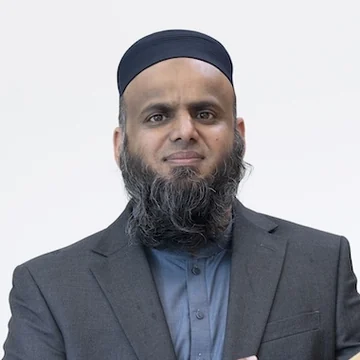
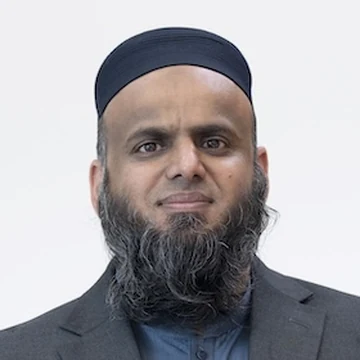
Project page: two-tone title, authors on one line, closer lead photo
- Title set in two tones: "Bias In, Bias Out:" large in ink, the
  descriptive part below in blue, lighter and smaller (wording unchanged)
- Project Lead block, then Dr. Muhammad Muneeb Saad, then Baqar Jafri on a
  single row under one rule; stacks on narrow screens
- Dr. Ali's photo re-cropped closer to match the other two
- Dr. Ali's own markup and text left exactly as he wrote them

diff --git a/assets/style.css b/assets/style.css
@@ -93,7 +93,14 @@ p{margin:0 0 1rem;max-width:62ch}
 /* The paper title is the h1, so it is set smaller and tighter than a marketing
    headline would be, and the plain-language question sits below it. */
 #finding h1{font-size:clamp(1.55rem,2.9vw,2.25rem);line-height:1.18;letter-spacing:-.02em;
-  font-weight:700;max-width:30ch}
+  font-weight:700;max-width:none}
+/* Two tones: the short name in ink and large, the long description below it in the page blue,
+   lighter and smaller, so the eye takes the name first. Blue rather than amber: amber text on the
+   light background falls below the contrast large text needs. */
+#finding h1 .t-main{display:block;font-size:clamp(2.1rem,4.4vw,3.1rem);font-weight:800;
+  letter-spacing:-.035em;line-height:1.05;color:var(--ink);margin-bottom:.55rem}
+#finding h1 .t-sub{display:block;font-size:clamp(1.12rem,1.9vw,1.42rem);font-weight:500;
+  letter-spacing:-.01em;line-height:1.4;color:var(--blue);max-width:44ch}
 .bylist{list-style:none;display:flex;flex-wrap:wrap;gap:0 2.2rem;margin:1.5rem 0 0;padding:.95rem 0 0;
   border-top:2px solid var(--ink)}
 .bylist li{font-size:.87rem;line-height:1.45;padding:.2rem 0}
@@ -109,6 +116,10 @@ span.pending{background:var(--panel);border:1px dashed var(--hair);border-radius
 .hero-av{width:3.6rem;height:3.6rem;border-radius:50%;object-fit:cover;object-position:50% 20%;
   border:1px solid var(--hair);background:var(--panel);flex:none}
 .leadrow{display:flex;align-items:center;gap:1rem}
+/* All three authors on one line under a single rule, wrapping only when the screen is too narrow. */
+.authors{display:flex;flex-wrap:wrap;align-items:center;gap:1rem 2.4rem;margin:1.3rem 0 0;
+  padding-top:1rem;border-top:2px solid var(--ink)}
+.authors .bylist{margin:0;padding:0;border-top:0;gap:1rem 2.4rem}
 .bylist li{display:grid;grid-template-columns:auto minmax(0,1fr);column-gap:.75rem;align-items:center}
 .bylist li .hero-av{grid-row:span 2}
 .hero-logos{display:flex;gap:.8rem;flex-wrap:wrap;align-items:center;margin-top:1.3rem}

diff --git a/index.html b/index.html
@@ -42,9 +42,14 @@
 <!-- ========================= 01 THE FINDING ====================== -->
 <section class="band" id="finding">
   <p class="tag">Audit · 4 models · 1,056 images · 2026</p>
-  <h1>Bias In, Bias Out: A Human-Validated Audit of Default-European Race-to-Role Assignment
-    for High-Status Roles across Four Text-to-Image Models</h1>
+  <!-- The paper title, verbatim. Set in two tones so the short name reads first and the long
+       description sits under it, quieter. -->
+  <h1><span class="t-main">Bias In, Bias Out:</span>
+    <span class="t-sub">A Human-Validated Audit of Default-European Race-to-Role Assignment
+    for High-Status Roles across Four Text-to-Image Models</span></h1>
 
+  <!-- One row of authors: the Project Lead block first, then the byline. -->
+  <div class="authors">
   <div class="leadrow">
   <img class="hero-av" src="assets/img/team/hazrat-ali.webp" width="360" height="360" alt="" decoding="async">
   <div class="lead-block">
@@ -57,6 +62,7 @@
     <li><img class="hero-av" src="assets/img/team/muneeb-saad.webp" width="360" height="360" alt="" decoding="async"><b>Dr. Muhammad Muneeb Saad</b><span>Munster Technological University</span></li>
     <li><img class="hero-av" src="assets/img/team/baqar-jafri.webp" width="360" height="360" alt="" decoding="async"><b>Baqar Jafri</b><span>University of Stirling</span></li>
   </ol>
+  </div>
   <div class="hero-logos" role="list" aria-label="Institutions">
     <a class="logotile" role="listitem" href="https://www.stir.ac.uk/">
       <img src="assets/img/logos/stirling.svg" width="662" height="166" alt="University of Stirling"></a>
